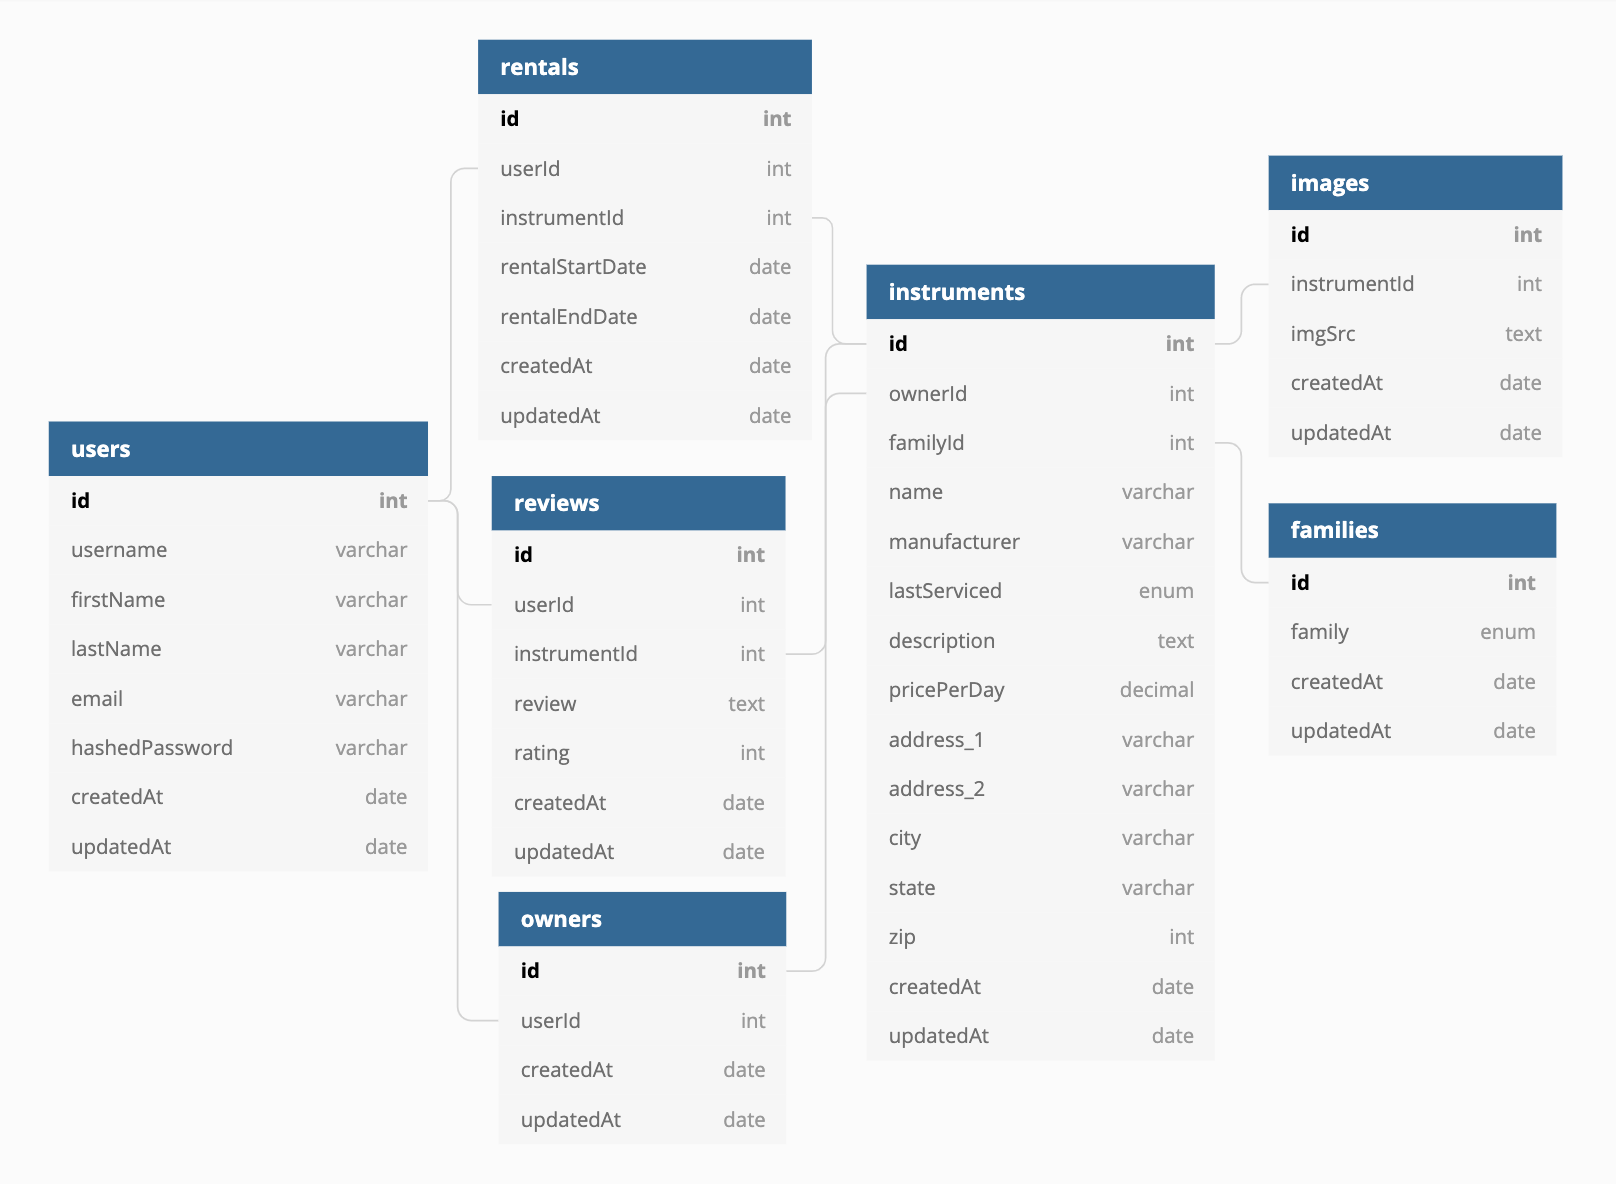
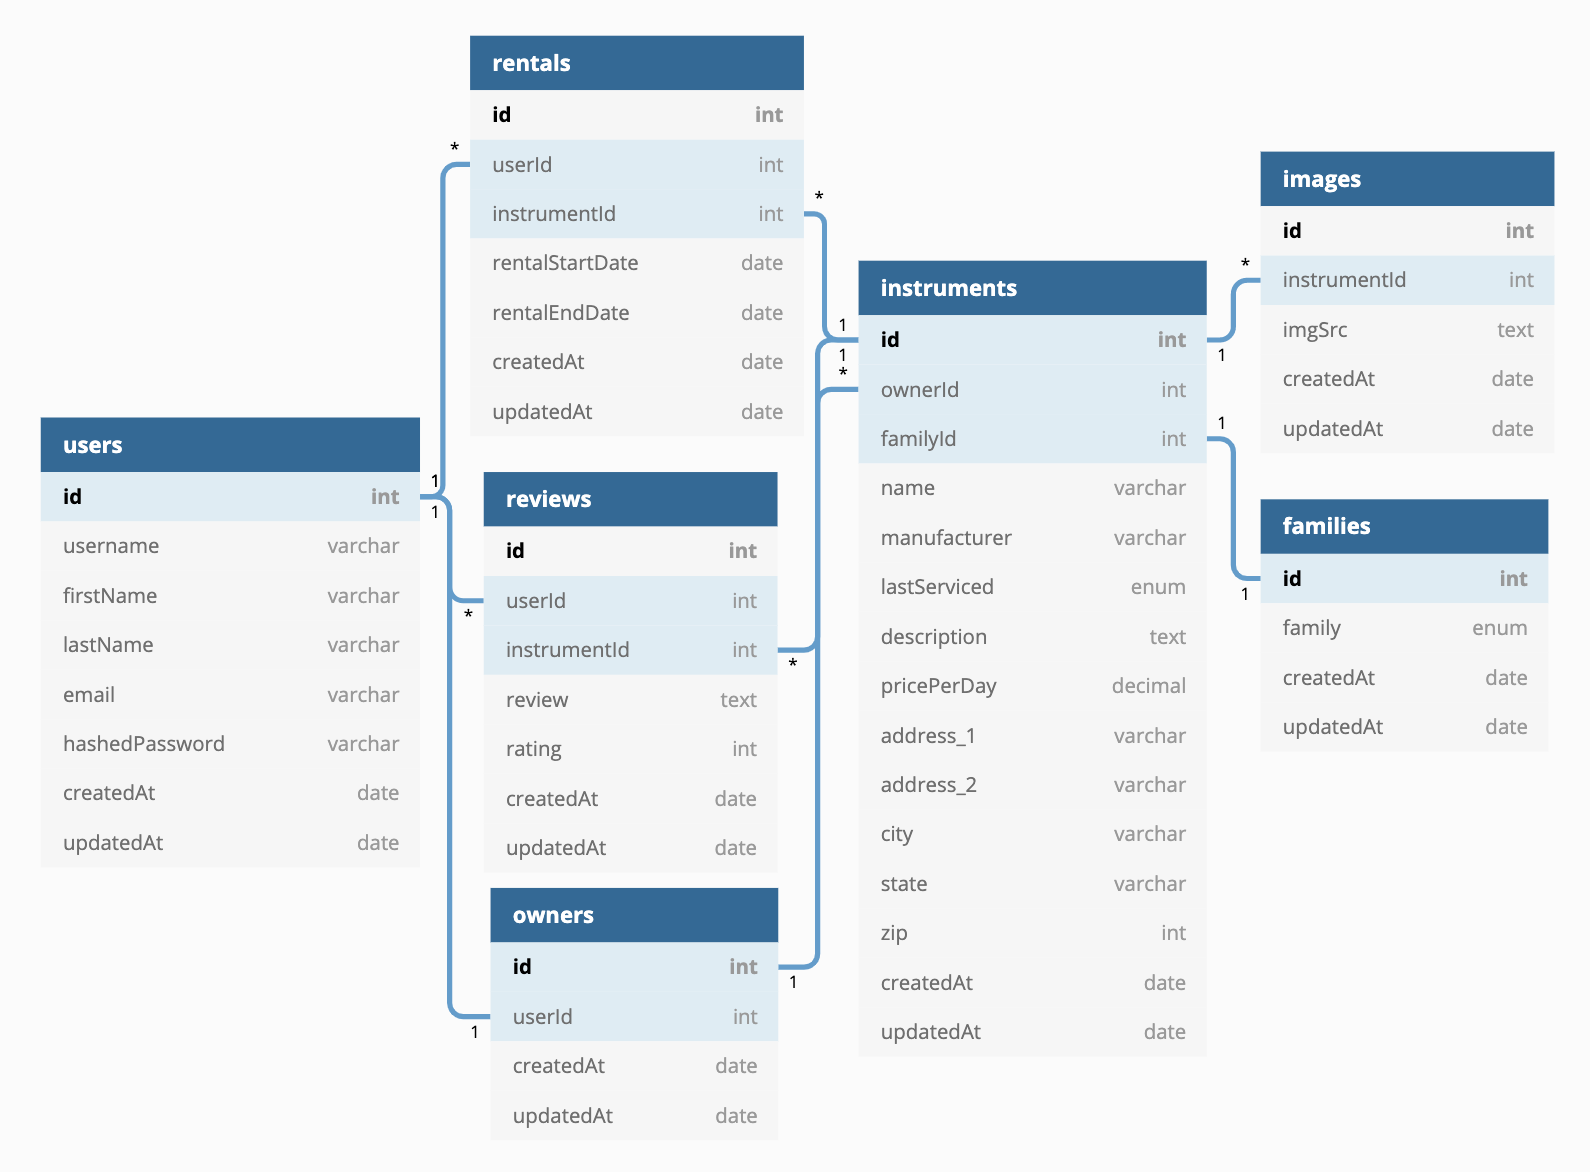
updated db schema and associations between user and owner tables

diff --git a/backend/db/models/owner.js b/backend/db/models/owner.js
@@ -8,7 +8,7 @@ module.exports = (sequelize, DataTypes) => {
     }
   }, {});
   Owner.associate = function(models) {
-    // associations can be defined here
+    Owner.belongsTo(models.User, { foreignKey: "userId" })
   };
   return Owner;
 };

diff --git a/backend/db/models/user.js b/backend/db/models/user.js
@@ -94,7 +94,7 @@ module.exports = (sequelize, DataTypes) => {
   }
 
   User.associate = function(models) {
-    // associations can be defined here
+    User.hasOne(models.Owner, { foreignKey: "userId" })
   };
   return User;
 };
